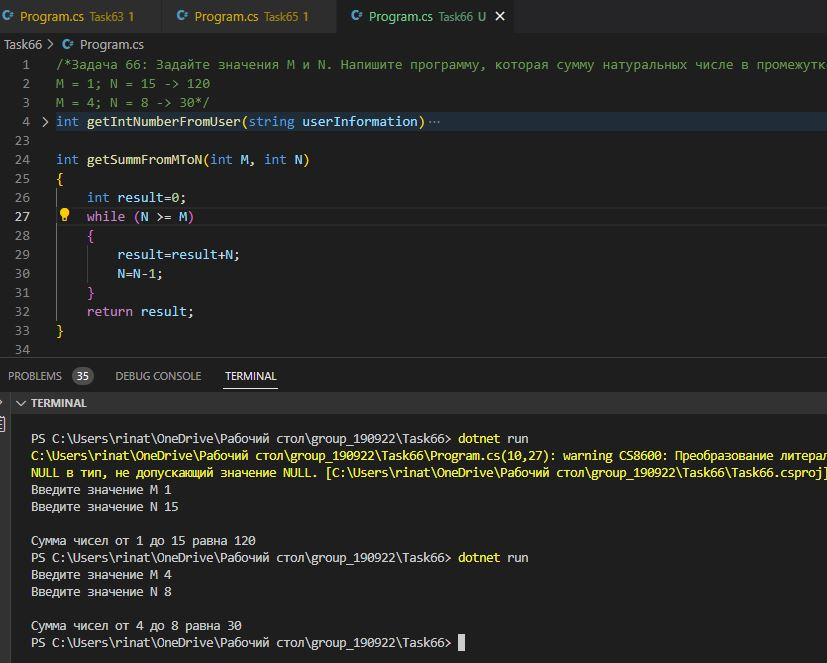
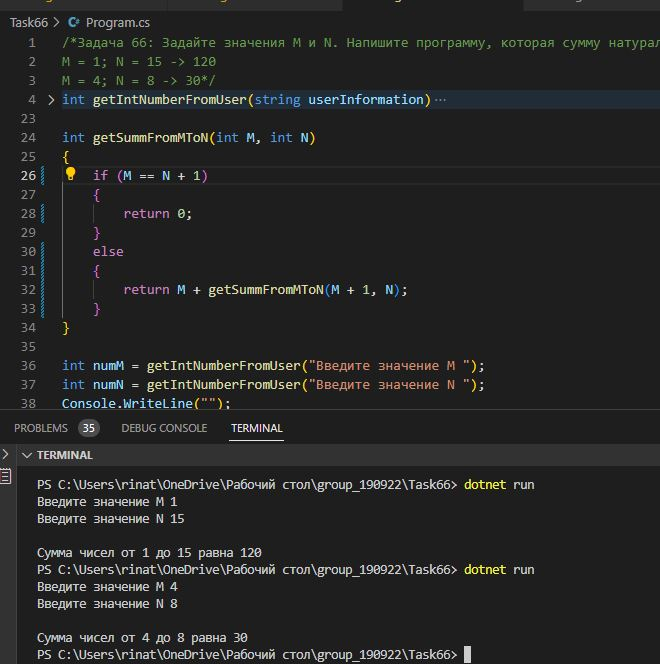
task66 added

Changed region(s): [[0.0, 0.0, 1.0, 1.0], [0.4242, 0.0, 0.6061, 0.0302], [0.5455, 0.4223, 0.6061, 0.4525]]

diff --git a/Task66/Program.cs b/Task66/Program.cs
@@ -23,13 +23,14 @@ int getIntNumberFromUser(string userInformation)
 
 int getSummFromMToN(int M, int N)
 {
-    int result=0;
-    while (N >= M)
+    if (M == N + 1)
     {
-        result=result+N;
-        N=N-1;
+        return 0;
     }
-    return result;
+    else
+    {
+        return M + getSummFromMToN(M + 1, N);
+    }
 }
 
 int numM = getIntNumberFromUser("Введите значение M ");
